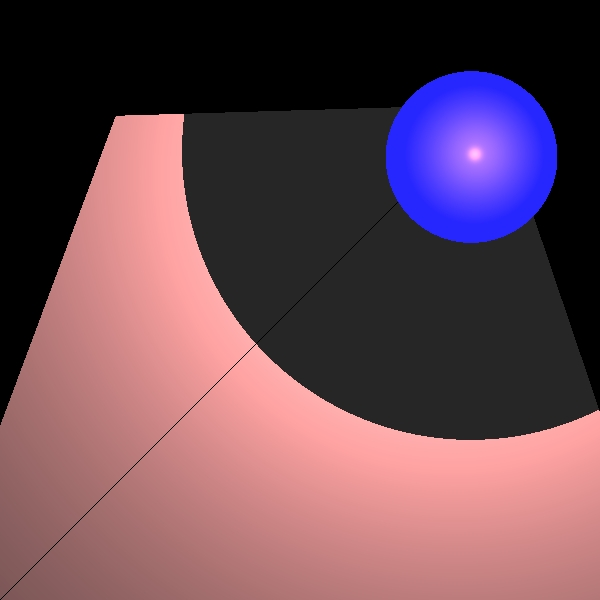
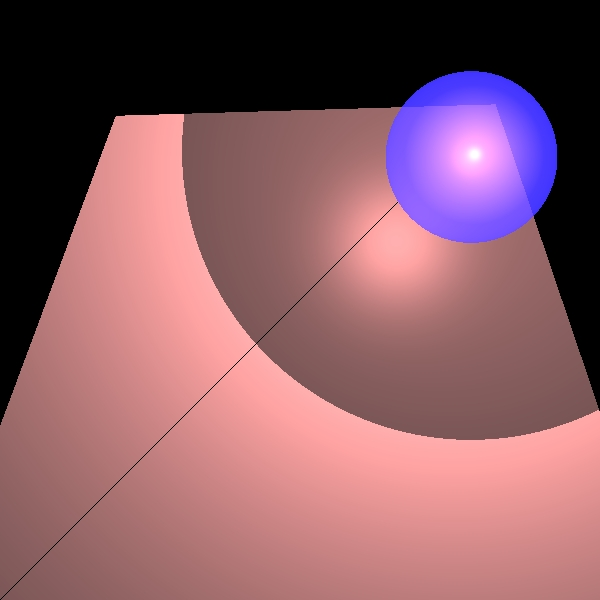
bonus

diff --git a/src/unittests/ReflectionRefractionTests.java b/src/unittests/ReflectionRefractionTests.java
@@ -3,6 +3,7 @@
  */
 package unittests;
 
+import geometries.Cylinder;
 import org.junit.Test;
 
 import elements.*;
@@ -105,4 +106,75 @@ public class ReflectionRefractionTests {
         render.renderImage();
         render.writeToImage();
     }
+
+
+    /**
+     * Produce a picture of a two triangles and two Spheres
+     */
+    @Test
+    public void multiShapesTransparent()throws Exception {
+        Scene scene = new Scene("Test scene");
+        scene.set_camera(new Camera(new Point3D(0, 0, -1000), new Vector(0, 0, 1), new Vector(0, -1, 0)));
+        scene.set_distance(1000);
+        scene.set_background(Color.BLACK);
+        scene.set_ambientLight(new AmbientLight(0.15, new Color(java.awt.Color.WHITE)));
+
+        scene.addGeometries( //
+                new Triangle(new Color(java.awt.Color.BLACK), new Material(0.5, 0.5, 60, 0, 1), //
+                        new Point3D(-150, 150, 115), new Point3D(150, 150, 135), new Point3D(75, -75, 150)), //
+                new Triangle(new Color(java.awt.Color.BLACK), new Material(0.5, 0.5, 60, 0, 1), //
+                        new Point3D(-150, 150, 115), new Point3D(-70, -70, 140), new Point3D(75, -75, 150)), //
+                new Sphere(new Color(java.awt.Color.CYAN), new Material(0.2, 0.2, 30, 0, 0), // )
+                        30, new Point3D(40, -60, -150)),
+                new Sphere(new Color(java.awt.Color.RED), new Material(0.4, 0.3, 100, 0.4, 0), 50,
+                            new Point3D(-55, 55, 50)));
+
+        scene.addLights(
+                new SpotLight(new Color(1000, 600, 0), new Point3D(-100, 100, -500), new Vector(-1, 1, 2), 1,
+                        0.0004, 0.0000006));
+
+        ImageWriter imageWriter = new ImageWriter("multiShapesTransparent", 200, 200, 600, 600);
+        Render render = new Render(imageWriter, scene);
+
+        render.renderImage();
+        render.writeToImage();
+    }
+
+    /**
+     * bonus with 10 shapes
+     */
+    @Test
+    public void bonusMultiShapes()throws Exception {
+        Scene scene = new Scene("Test scene");
+        scene.set_camera(new Camera(new Point3D(-500, -1500, 0), new Vector(1, 1, 0), new Vector(0, 0, 1)));
+        scene.set_distance(200);
+        scene.set_background(new Color(java.awt.Color.BLACK));
+        scene.set_ambientLight(new AmbientLight(0.15, new Color(java.awt.Color.WHITE)));
+        scene.addGeometries( //
+                new Triangle(new Color(java.awt.Color.WHITE), new Material(0.5, 0.5, 60, 0.5, 0.5), //
+                        new Point3D(1000, 1000, 0), new Point3D(1000, -1000, 0), new Point3D(1000, 0, 1000)),
+                new Triangle(new Color(java.awt.Color.WHITE), new Material(0.5, 0.5, 60, 0.5, 0.5), //
+                        new Point3D(1000, 1000, 0), new Point3D(1000, -1000, 0), new Point3D(1000, 0, -1000)),
+                new Sphere(new Color(java.awt.Color.RED), new Material(0.4, 0.3, 100, 0.4, 0), 30,
+                        new Point3D(950, 0, 0)),
+                new Sphere(new Color(java.awt.Color.RED), new Material(0.4, 0.3, 100, 0.4, 0), 30,
+                        new Point3D(950, 0, -250)),
+                new Sphere(new Color(java.awt.Color.RED), new Material(0.4, 0.3, 100, 0.4, 0), 30,
+                        new Point3D(950, 0, 250)),
+                new Sphere(new Color(java.awt.Color.RED), new Material(0.4, 0.3, 100, 0.4, 0), 30,
+                        new Point3D(950, 250, 0)),
+                new Sphere(new Color(java.awt.Color.RED), new Material(0.4, 0.3, 100, 0.4, 0), 30,
+                        new Point3D(950, -250, 0)));
+
+        scene.addLights(
+                new SpotLight(new Color(java.awt.Color.WHITE), new Point3D(0, 0, 0), new Vector(1, 0, 0), 1,
+                        0.0004, 0.0000006));
+
+        ImageWriter imageWriter = new ImageWriter("bonus 10 shapes", 200, 200, 600, 600);
+        Render render = new Render(imageWriter, scene);
+
+        render.renderImage();
+        render.writeToImage();
+    }
+
 }

diff --git a/src/renderer/Render.java b/src/renderer/Render.java
@@ -31,7 +31,7 @@ public class Render {
      */
     private static final int MAX_CALC_COLOR_LEVEL = 10;
     /**
-     * MIN_CALC_COLOR_K - stoping calculate color at this value of k
+     * MIN_CALC_COLOR_K - stopping calculate color at this value of k
      */
     private static final double MIN_CALC_COLOR_K = 0.001;
 
@@ -122,12 +122,14 @@ public class Render {
             for (LightSource lightSource : scene.get_lights()){
                 Vector l = lightSource.getL(p.point);
                 double nl = alignZero(n.dotProduct(l));
-                if((nl>0 && nv>0) || (nl<0 && nv<0))
+                //if((nl>0 && nv>0) || (nl<0 && nv<0))
+                if(nl*nv>0)
                 {
-                    if(unshaded(l, n, p, lightSource)){
-                         primitives.Color ip =lightSource.getIntensity(p.point);
+                   // if(unshaded(l, n, p, lightSource)){
+                        double ktr = transparency(l, n, p, lightSource);
+                         primitives.Color ip =lightSource.getIntensity(p.point).scale(ktr);
                          color = color.add(calcDiffusive(kd, nl, ip), calcSpecular(ks, l, n, nl, v, nShininess, ip));
-                    }
+                    //}
                 }
             }
 
@@ -228,6 +230,39 @@ public class Render {
             return true;
         }
     }
+
+    /**
+     * unshaded -cheak if an intersection point need to be shadow or not
+     * @param l direction from light to point
+     * @param n normal to the point
+     * @param geopoint the point we cheak for shadow
+     * @param lightSource the light source
+     * @return true if its an intersection point need to be unshadow
+     */
+    private double transparency(Vector l, Vector n, GeoPoint geopoint, LightSource lightSource){
+        try {
+            Vector fromPointToLightVector = l.scale(-1);
+            Ray fromPointToLightRay = new Ray(geopoint.point, fromPointToLightVector, n);
+            List<GeoPoint> intersections = scene.get_geometries().findIntersections(fromPointToLightRay);
+            if(intersections==null || intersections.size() == 0)
+                return 1;
+
+            double lightDistance = lightSource.getDistance(geopoint.point);
+            double ktr = 1.0;
+            for (GeoPoint gp : intersections) {
+                if (alignZero(gp.point.distance(geopoint.point) - lightDistance) <= 0) {
+                    ktr *= gp.geometry.get_material().get_KT();
+                    if (ktr < MIN_CALC_COLOR_K)
+                        return 0.0;
+                }
+            }
+            return ktr;
+        }
+        catch (Exception e){
+            return 0;
+        }
+    }
+
     /**
      * contract Reflected Ray
      * @param n normal to point
